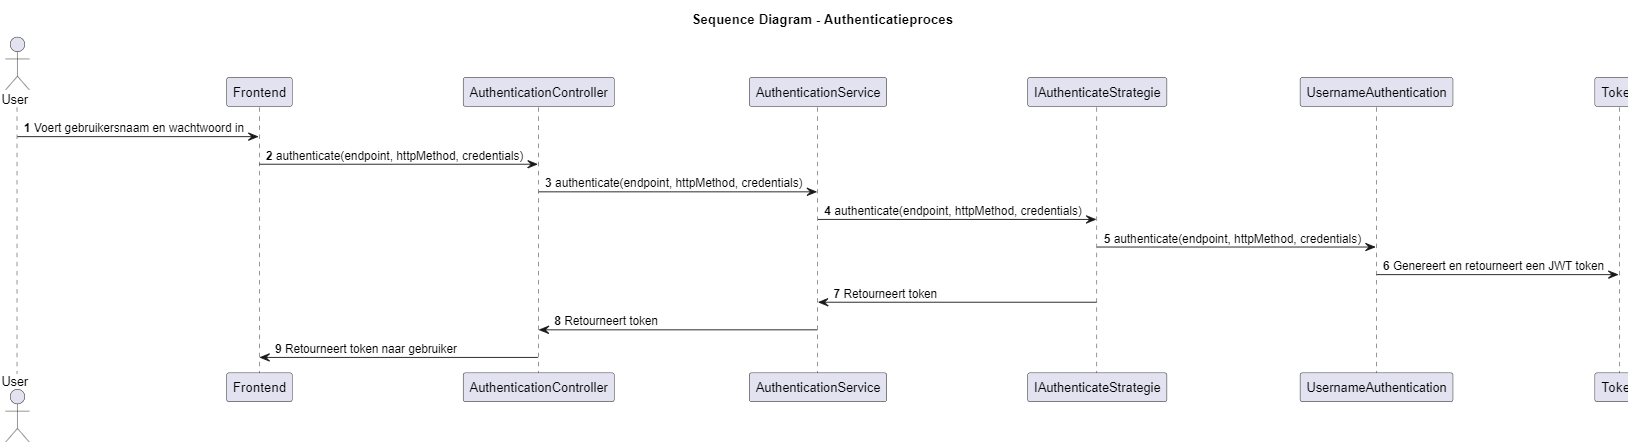
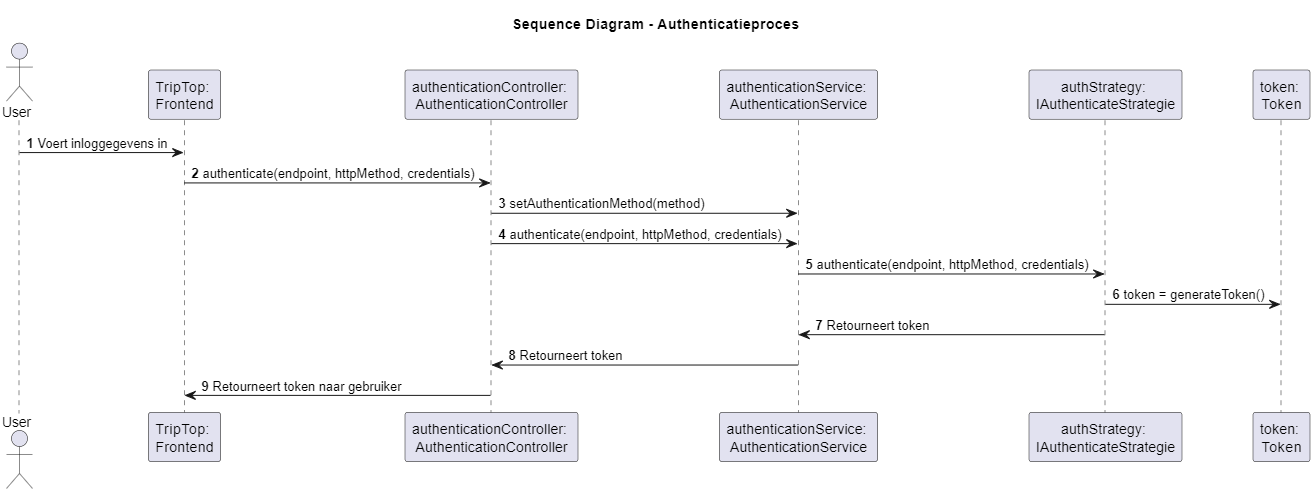
Sequence diagram aangepast

diff --git a/software-guidebook/README.md b/software-guidebook/README.md
@@ -125,7 +125,7 @@ Wij hebben voor deze onderzoeksvraag een klasse diagram ontworpen (zie afbeeldin
 _Afbeelding 11: Klasse diagram authenticeren._
 
 #### Sequence diagram
-Het sequence diagram laat duidelijk de interacties tussen de verschillende klasses zien tijdens het authenticeren (zie afbeelding 11). De gebruiker voert inloggegevens in via de frontend, waarna de Authentication Controller deze verwerkt en doorstuurt naar de Authentication Service. Afhankelijk van de gewenste authenticatiemethode (bijv. gebruikersnaam/wachtwoord, API-sleutel of geheime token), wordt een token gegenereerd en teruggestuurd. Deze token wordt vervolgens gebruikt voor geauthenticeerde verzoeken.
+Het sequence diagram laat duidelijk de interacties tussen de verschillende klasses zien tijdens het authenticeren (zie afbeelding 11). De gebruiker voert inloggegevens in via de frontend, waarna de Authentication Controller deze doorstuurt naar de Authentication Service. Afhankelijk van de gewenste authenticatiemethode (bijv. gebruikersnaam/wachtwoord, API-sleutel of geheime token), wordt een implementatie van authStrategy aangeroepen die de inloggegevens controleert. Bij een succesvolle inlog wordt er een token gegenereerd en teruggestuurd. Deze token kan vervolgens gebruikt worden voor geauthenticeerde verzoeken.
 
 ![Sequence Diagram Authenticeren](/opdracht-diagrammen/C4-Diagrammen/SequenceDiagramMischa.png)
 _Afbeelding 12: Sequence diagram authenticeren._

diff --git a/TO-DO.md b/TO-DO.md
@@ -11,7 +11,7 @@
 - [ ] sequence diagram
 
 ## Mischa
-- [ ] bekijk eigen [feedback](./feedback/feedback-week2.md) in het feedback bestand en kruis alles af waar je eigen naam bij staat
+- [x] bekijk eigen [feedback](./feedback/feedback-week2.md) in het feedback bestand en kruis alles af waar je eigen naam bij staat
 - [x] prototype maken
 ## Iedereen
 - [ ] bekijk [feedback](./feedback/feedback-week2.md), en kruis alles af wat gedaan is en pas dingen aan indien nodig
